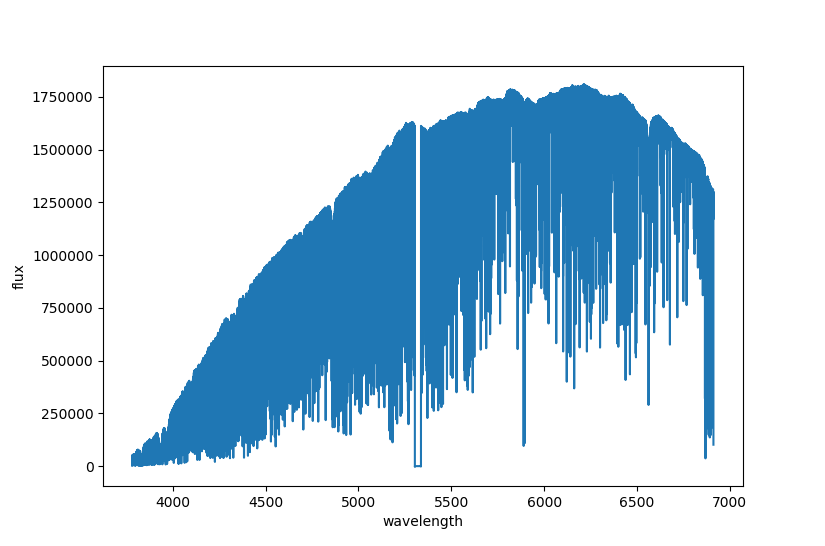
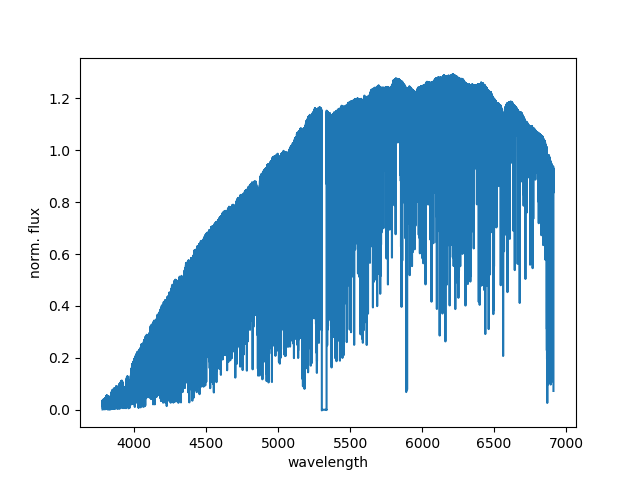
median norm

diff --git a/test2.py b/test2.py
@@ -2,7 +2,7 @@ from astropy.io import fits
 import matplotlib.pyplot as plt
 import numpy as np
 
-hdulist = fits.open('vesta_harps_comb_rv.fits')
+hdulist = fits.open('../solar_spectra/vesta_harps_comb_rv.fits')
 
 print(hdulist)
 hdu = hdulist[0]
@@ -14,10 +14,11 @@ size = hdu.header['NAXIS1']
 
 wavelength = crval + cdel * np.arange(size)
 
-print("hello")
+data_med = np.median(hdulist[0].data)
+
 
 plt.xlabel("wavelength")
-plt.ylabel("flux")
+plt.ylabel("norm. flux")
 
-plt.plot(wavelength, hdulist[0].data)
+plt.plot(wavelength, hdulist[0].data / data_med)
 plt.show()
